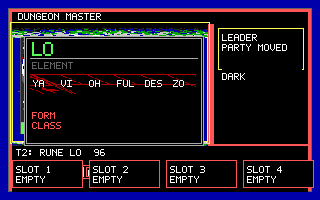
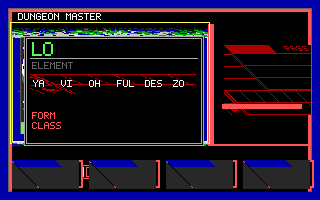
m11: V1 right-column authentic DM1 action + spell area frames
Replace the procedural utility-panel hairline box in the V1 in-game
screen with the original GRAPHICS.DAT panels that DM1 draws at that
exact position:

  - graphic 10 (C010_GRAPHIC_MENU_ACTION_AREA, 87x45) blitted at (224, 45)
  - graphic  9 (C009_GRAPHIC_MENU_SPELL_AREA_BACKGROUND, 87x25)
      blitted at (224, 90)

These are the authentic carved-panel frames that ReDMCSB
F0387_MENUS_DrawActionArea and F0394_MENUS_SetMagicCasterAndDrawSpellArea
paint into ZONE_ACTION_AREA and ZONE_SPELL_AREA. The native-size,
native-position blit gives the right column its red/orange dividers,
action- and spell-area header bands and internal line structure
directly from the original data, instead of a single flat 86x42
procedural rect outlined by an M11_COLOR_LIGHT_CYAN hairline.

V1 overlay text (active champion name, HP/ST line) is repositioned
onto the action-area header row at y=49 and the intra-panel row at
y=59 so it sits inside the authentic frame rather than floating above
an empty procedural box, matching F0387_MENUS_DrawActionArea text
layout (champion name printed at 80,85 in the 320x200 screen).

The light-level indicator bar is moved to y=104, inside the spell-area
band, so it stays inside an authentic frame band rather than painting
over the action-area header.

Debug HUD behaviour is preserved: when showDebugHUD is on, the legacy
86x42 procedural utility panel and the I/S/L debug buttons with their
light label are drawn unchanged, so nothing that the m11 game-view
[…]

Changed region(s): [[0.0312, 0.75, 0.9688, 0.96], [0.6875, 0.12, 0.9688, 0.6]]

diff --git a/m11_game_view.c b/m11_game_view.c
@@ -7977,6 +7977,56 @@ void M11_GameView_UpdateTorchFuel(M11_GameViewState* state) {
     }
 }
 
+/* Classic-DM right column geometry (320x200 screen).
+ *
+ *   ZONE_ACTION_AREA = (224, 45, 311, 89)   — 88x45, origin of graphic 10
+ *     (C010_GRAPHIC_MENU_ACTION_AREA, 87x45 in GRAPHICS.DAT).
+ *   ZONE_SPELL_AREA  = (233, 90, 319, 125)  — spell area backdrop below
+ *     action area.  Graphic 9 (C009_GRAPHIC_MENU_SPELL_AREA_BACKGROUND,
+ *     87x25) is used when the spell casting UI is active; we reuse it
+ *     here as the structural backdrop strip so the right column
+ *     presents the authentic carved-panel frame rather than empty black
+ *     space above the party HUD.  Reference: ReDMCSB DEFS.H:2216,
+ *     F0387_MENUS_DrawActionArea and F0394_MENUS_SetMagicCasterAndDrawSpellArea.
+ */
+#define M11_DM_ACTION_AREA_X    224
+#define M11_DM_ACTION_AREA_Y     45
+#define M11_DM_ACTION_AREA_W     87
+#define M11_DM_ACTION_AREA_H     45
+#define M11_DM_SPELL_AREA_X     224
+#define M11_DM_SPELL_AREA_Y      90
+#define M11_DM_SPELL_AREA_W      87
+#define M11_DM_SPELL_AREA_H      25
+
+/* Try to blit GRAPHICS.DAT graphic `gfxIdx` at its native size anchored
+ * at (x,y).  Returns 1 on success, 0 if the asset was unavailable or
+ * had unexpected dimensions. */
+static int m11_blit_panel_asset_native(const M11_GameViewState* state,
+                                       unsigned char* framebuffer,
+                                       int framebufferWidth,
+                                       int framebufferHeight,
+                                       unsigned int gfxIdx,
+                                       int expectedW,
+                                       int expectedH,
+                                       int x,
+                                       int y) {
+    const M11_AssetSlot* slot;
+    if (!state || !state->assetsAvailable) {
+        return 0;
+    }
+    slot = M11_AssetLoader_Load((M11_AssetLoader*)&state->assetLoader, gfxIdx);
+    if (!slot || slot->width <= 0 || slot->height <= 0) {
+        return 0;
+    }
+    if ((int)slot->width != expectedW || (int)slot->height != expectedH) {
+        return 0;
+    }
+    M11_AssetLoader_BlitRegion(slot, 0, 0, expectedW, expectedH,
+                               framebuffer, framebufferWidth, framebufferHeight,
+                               x, y, -1);
+    return 1;
+}
+
 static void m11_draw_utility_panel(const M11_GameViewState* state,
                                    unsigned char* framebuffer,
                                    int framebufferWidth,
@@ -7986,17 +8036,56 @@ static void m11_draw_utility_panel(const M11_GameViewState* state,
     char champion[16];
     const struct ChampionState_Compat* activeChampion = m11_get_active_champion(state);
     unsigned char accent = activeChampion ? M11_COLOR_LIGHT_GREEN : M11_COLOR_LIGHT_CYAN;
+    int drewAuthenticFrames = 0;
 
     if (!state) {
         return;
     }
 
-    m11_fill_rect(framebuffer, framebufferWidth, framebufferHeight,
-                  M11_UTILITY_PANEL_X, M11_UTILITY_PANEL_Y,
-                  M11_UTILITY_PANEL_W, M11_UTILITY_PANEL_H, M11_COLOR_BLACK);
-    m11_draw_rect(framebuffer, framebufferWidth, framebufferHeight,
-                  M11_UTILITY_PANEL_X, M11_UTILITY_PANEL_Y,
-                  M11_UTILITY_PANEL_W, M11_UTILITY_PANEL_H, M11_COLOR_LIGHT_CYAN);
+    /* V1 mode: replace the procedural utility-panel backdrop with the
+     * original GRAPHICS.DAT action area (graphic 10, 87x45) and the
+     * spell area backdrop (graphic 9, 87x25) blitted at their
+     * classic-DM screen coordinates.  This gives the right column the
+     * authentic carved frame and avoids the flat-fill + hairline rect
+     * that read as procedural.  Debug HUD keeps the procedural panel
+     * so the ad-hoc I/S/L buttons still have a dark backdrop.
+     *
+     * The combined action+spell strip covers y=45..114, which lines up
+     * with the utility panel's current vertical band (y=28..70) plus
+     * the previously empty space above the party HUD (y=70..146).
+     * Reference: ReDMCSB ACTIDRAW.C / CASTER.C and C011_ZONE_ACTION_AREA /
+     * C013_ZONE_SPELL_AREA in ZONES.H. */
+    if (!state->showDebugHUD) {
+        int drewAction = m11_blit_panel_asset_native(state,
+            framebuffer, framebufferWidth, framebufferHeight,
+            M11_GFX_ACTION_AREA, M11_DM_ACTION_AREA_W, M11_DM_ACTION_AREA_H,
+            M11_DM_ACTION_AREA_X, M11_DM_ACTION_AREA_Y);
+        int drewSpell = m11_blit_panel_asset_native(state,
+            framebuffer, framebufferWidth, framebufferHeight,
+            M11_GFX_SPELL_AREA_BG, M11_DM_SPELL_AREA_W, M11_DM_SPELL_AREA_H,
+            M11_DM_SPELL_AREA_X, M11_DM_SPELL_AREA_Y);
+        if (drewAction && drewSpell) {
+            drewAuthenticFrames = 1;
+        } else {
+            /* If only part loaded, clear and fall back to procedural so
+             * we don't leave a half-original frame. */
+            m11_fill_rect(framebuffer, framebufferWidth, framebufferHeight,
+                          M11_DM_ACTION_AREA_X, M11_DM_ACTION_AREA_Y,
+                          M11_DM_ACTION_AREA_W,
+                          (M11_DM_SPELL_AREA_Y + M11_DM_SPELL_AREA_H) -
+                              M11_DM_ACTION_AREA_Y,
+                          M11_COLOR_BLACK);
+        }
+    }
+
+    if (!drewAuthenticFrames) {
+        m11_fill_rect(framebuffer, framebufferWidth, framebufferHeight,
+                      M11_UTILITY_PANEL_X, M11_UTILITY_PANEL_Y,
+                      M11_UTILITY_PANEL_W, M11_UTILITY_PANEL_H, M11_COLOR_BLACK);
+        m11_draw_rect(framebuffer, framebufferWidth, framebufferHeight,
+                      M11_UTILITY_PANEL_X, M11_UTILITY_PANEL_Y,
+                      M11_UTILITY_PANEL_W, M11_UTILITY_PANEL_H, M11_COLOR_LIGHT_CYAN);
+    }
 
     m11_get_active_champion_label(state, champion, sizeof(champion));
 
@@ -8008,11 +8097,14 @@ static void m11_draw_utility_panel(const M11_GameViewState* state,
         m11_draw_text(framebuffer, framebufferWidth, framebufferHeight,
                       250, 34, line, &g_text_small);
     } else if (activeChampion) {
-        /* V1 mode: champion name only, centered in panel, only when
-         * there is a real active champion. "LEADER" placeholder is
-         * hidden in V1 so the screen doesn't read like a tool. */
+        /* V1 mode: champion name only, aligned on top of the action
+         * area frame.  When the authentic graphic is blitted at y=45,
+         * place the name inside the header band (y ~ 49) so it reads
+         * as the action-area title, matching
+         * F0387_MENUS_DrawActionArea's 80,85 name print. */
+        int nameY = drewAuthenticFrames ? 49 : 34;
         m11_draw_text(framebuffer, framebufferWidth, framebufferHeight,
-                      222, 34, champion, &g_text_small);
+                      227, nameY, champion, &g_text_small);
     }
 
     line[0] = '\0';
@@ -8032,8 +8124,10 @@ static void m11_draw_utility_panel(const M11_GameViewState* state,
                  state->lastOutcome[0] != '\0' ? state->lastOutcome : "READY");
     }
     if (line[0] != '\0') {
+        int statY = (drewAuthenticFrames && !state->showDebugHUD) ? 59 : 44;
+        int statX = (drewAuthenticFrames && !state->showDebugHUD) ? 227 : 222;
         m11_draw_text(framebuffer, framebufferWidth, framebufferHeight,
-                      222, 44, line, &g_text_small);
+                      statX, statY, line, &g_text_small);
     }
 
     if (state->showDebugHUD) {
@@ -8075,16 +8169,22 @@ static void m11_draw_utility_panel(const M11_GameViewState* state,
             lightColor = M11_COLOR_BLACK;
             lightLabel = "DARK";
         }
-        /* Draw light bar (max 80px wide, scaled to light level) */
+        /* Draw light bar (max 80px wide, scaled to light level).
+         * When the authentic action+spell graphics are blitted, move
+         * the bar inside the spell-area band (y=104) so it doesn't
+         * paint over the action-area header.  Debug HUD keeps the
+         * legacy y=67 position next to the I/S/L buttons. */
+        int barY = (drewAuthenticFrames && !state->showDebugHUD) ? 104 : 67;
+        int barFillY = barY + 1;
         barW = (lightLevel * 80) / M11_LIGHT_MAX;
         if (barW < 1 && lightLevel > 0) barW = 1;
         m11_draw_rect(framebuffer, framebufferWidth, framebufferHeight,
-                      222, 67, 80, 5, M11_COLOR_DARK_GRAY);
+                      222, barY, 80, 5, M11_COLOR_DARK_GRAY);
         m11_fill_rect(framebuffer, framebufferWidth, framebufferHeight,
-                      222, 68, 80, 3, M11_COLOR_DARK_GRAY);
+                      222, barFillY, 80, 3, M11_COLOR_DARK_GRAY);
         if (barW > 0) {
             m11_fill_rect(framebuffer, framebufferWidth, framebufferHeight,
-                          222, 68, barW, 3, lightColor);
+                          222, barFillY, barW, 3, lightColor);
         }
         if (state->showDebugHUD) {
             m11_draw_text(framebuffer, framebufferWidth, framebufferHeight,
